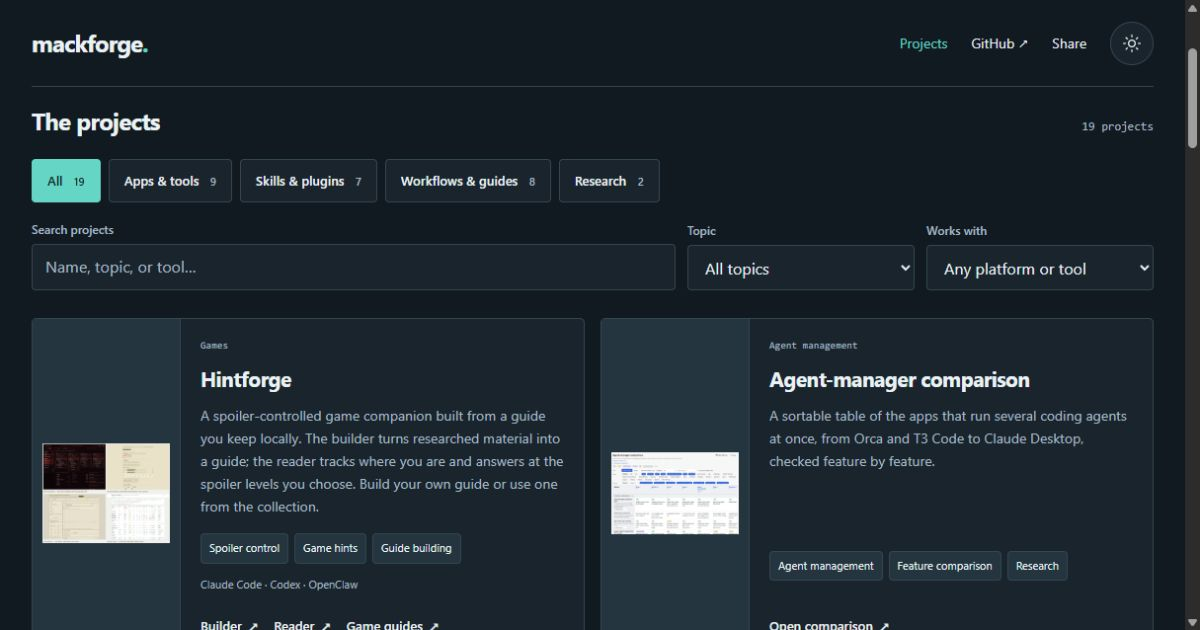
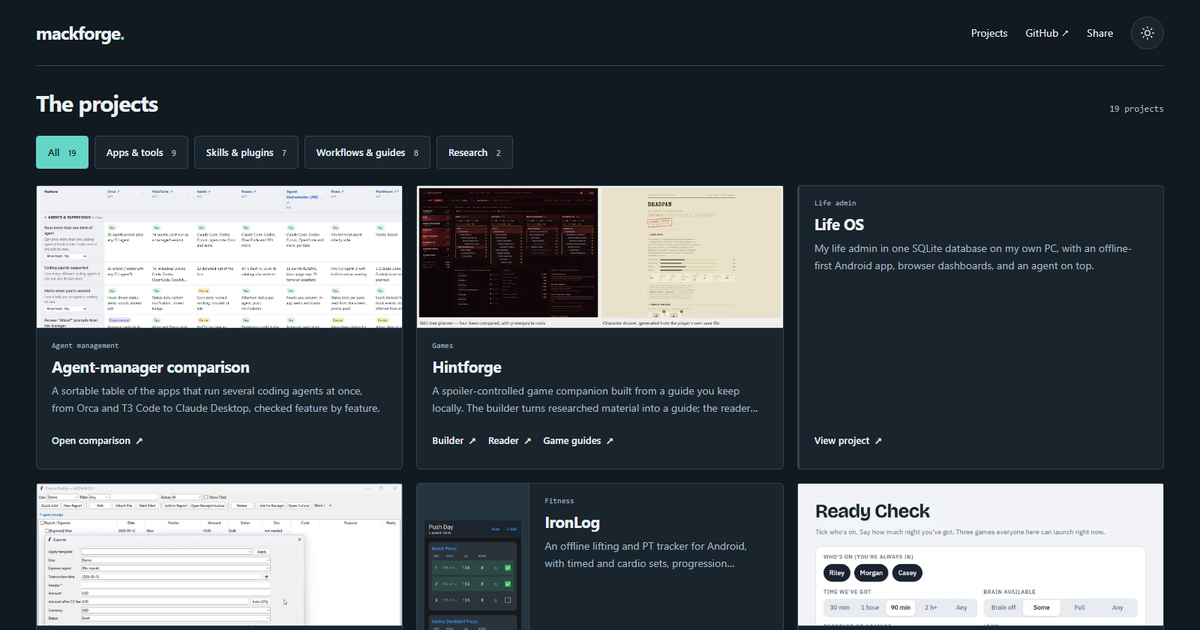
Link preview shows the current catalogue, comparison first

diff --git a/README.md b/README.md
@@ -1,6 +1,6 @@
 # mackforge
 
-![mackforge project catalogue, with Hintforge and the agent-manager comparison first](assets/preview.png)
+![mackforge project catalogue, with the agent-manager comparison first and Hintforge beside it](assets/preview.png)
 
 Apps, skills, and practical systems I built with coding agents for my own use, collected at [mackforge.dev](https://mackforge.dev/).
 
